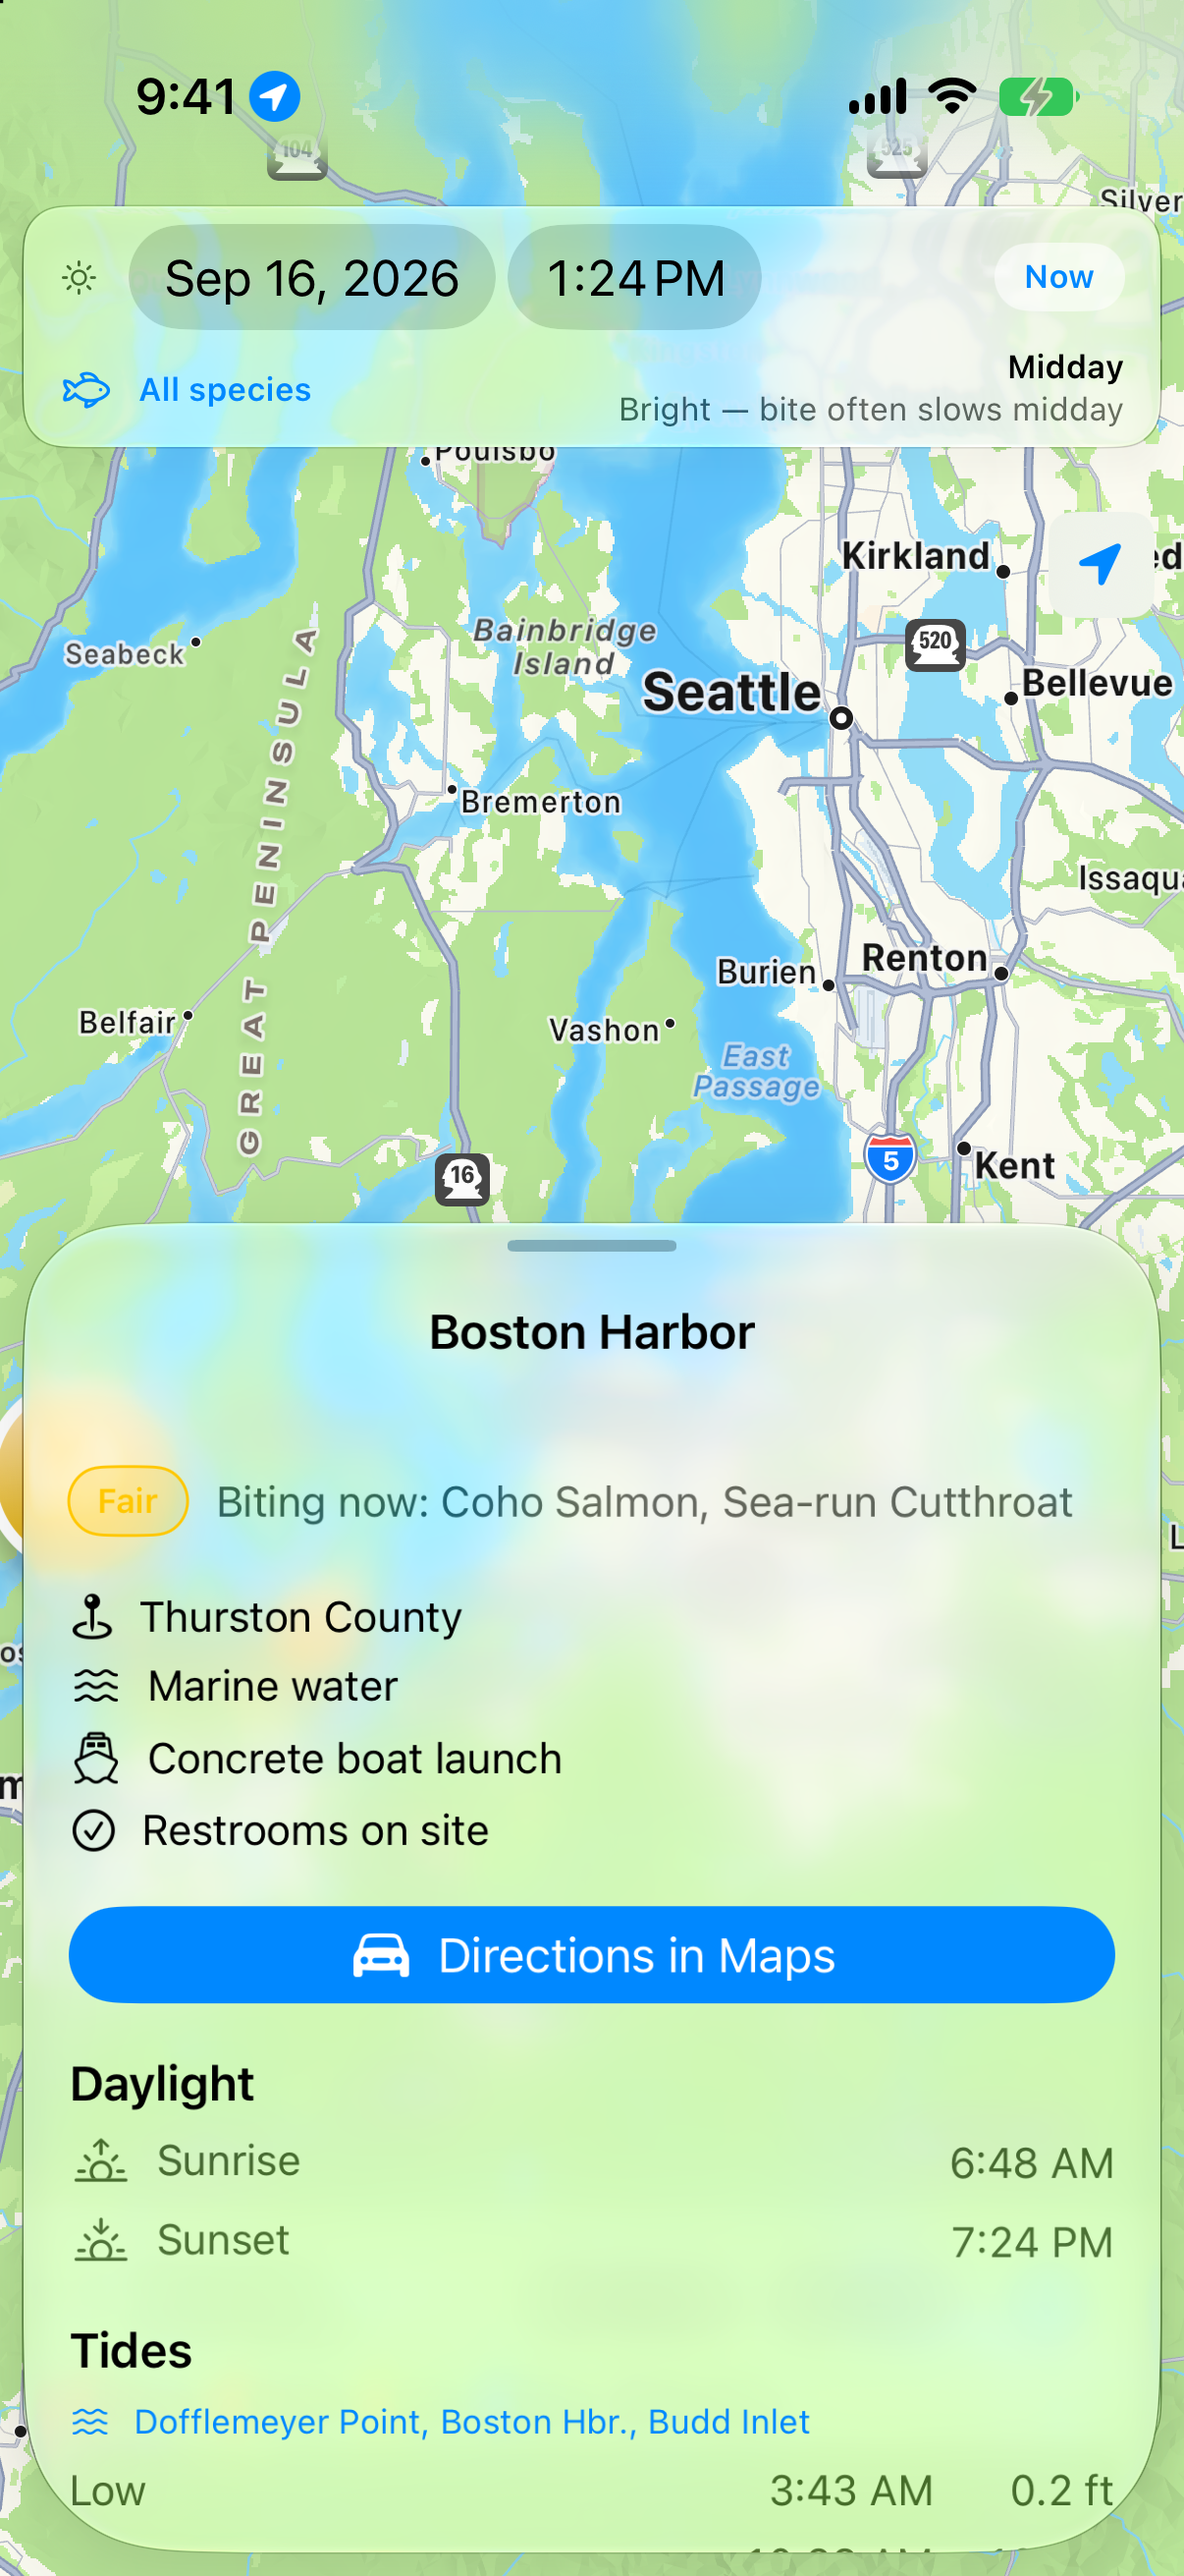
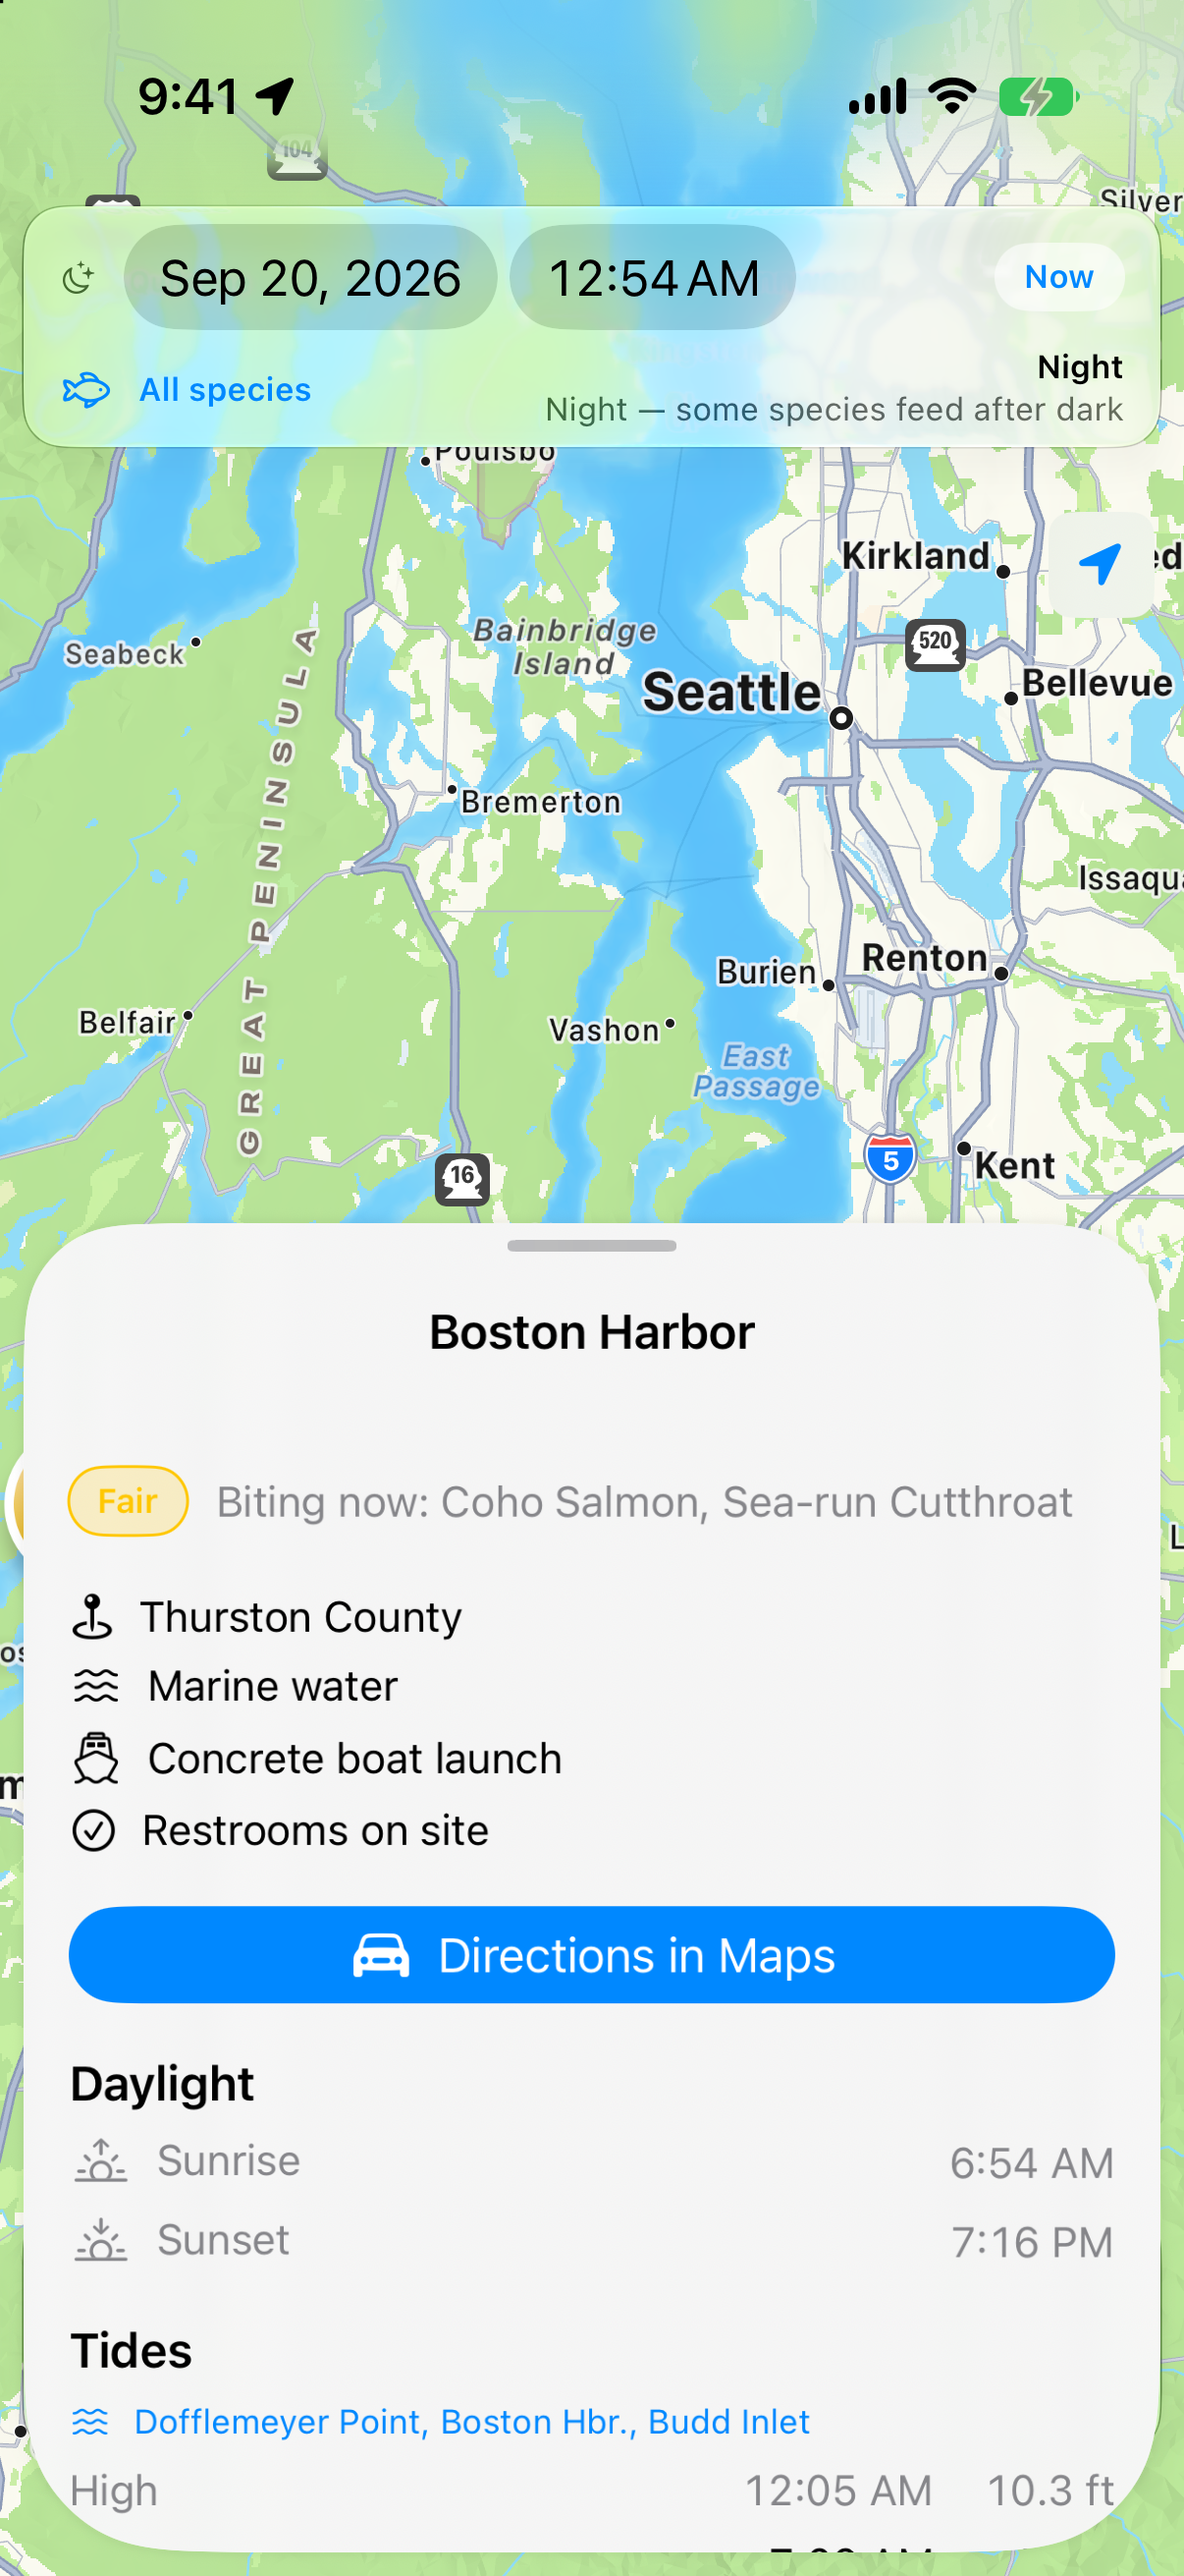
Marker sizing, sheet legibility, and six screenshot frames
Four fixes found by building a design system from this repo and reading the
result on the simulator.

Markers were MKMarkerAnnotationView at its own size, which at regional zoom
covered the place names a person navigates by — the screen read as a map of
pins rather than a map with pins on it. MarkerMetrics now scales pins to 0.8
and clusters to 0.95, applied in both layoutSubviews and prepareForDisplay
since a dequeued view is not always laid out again before MapKit shows it. The
cluster's tip-correcting transform moved into the same helper: it already
worked in both directions, the term simply goes negative when shrinking.

Each sheet's first row is a rating badge and a subtitle sitting directly under
an inline navigation title, and with a transparent bar the title drew straight
through it — "Public fishin{Les Davis Pier}g pier". The bar is now opaque on
all three sheets, so content scrolls under it instead of into it.

At the medium detent the sheet's default background let the live basemap and
the heat wash through, and body rows were read against green-blue mottling.
thickMaterial keeps it readable while still reading as a layer over the map.

GuidanceFooter drew .yellow.opacity(0.12) while DS.Surface.advisory existed
for exactly this reason: yellow is also the Fair rating, and both appear on the
same sheet, so a reader had no way to tell a caution from a rating. It uses the
token now.

app_store_screenshots.sh goes from two frames to six — the pier and river
[…]

diff --git a/WAFishMap/Map/AnnotationViews.swift b/WAFishMap/Map/AnnotationViews.swift
@@ -1,6 +1,26 @@
 import MapKit
 import SwiftUI
 
+/// How large a marker draws, relative to `MKMarkerAnnotationView`'s own size.
+///
+/// The class has no size property, so both values are applied as a transform.
+/// At the default size the balloons covered the place labels they are meant to
+/// sit beside at regional zoom — a map of pins rather than a map with pins on
+/// it. A cluster stays a fixed step above a single pin so "13" never reads as
+/// one spot.
+enum MarkerMetrics {
+    static let pin: CGFloat = 0.8
+    static let cluster: CGFloat = 0.95
+
+    /// Scaling happens about the view's centre, which walks the balloon's tip
+    /// off its coordinate. Translating by half the height change puts it back,
+    /// in either direction: the term is negative when shrinking.
+    static func transform(for view: MKAnnotationView, scale: CGFloat) -> CGAffineTransform {
+        let lift = view.bounds.height * (scale - 1) / 2
+        return CGAffineTransform(translationX: 0, y: -lift).scaledBy(x: scale, y: scale)
+    }
+}
+
 /// The marine-area "MA n" capsule. A plain annotation, deliberately outside the
 /// site cluster group — labels must not merge into a site badge.
 final class AreaLabelAnnotation: NSObject, MKAnnotation {
@@ -32,6 +52,24 @@ final class SiteMarkerView: MKMarkerAnnotationView {
             clusteringIdentifier = "site"
             apply(annotation)
         }
+    }
+
+    // Applied at both points: a dequeued view is not always laid out again
+    // before MapKit shows it, so `layoutSubviews` alone leaves a reused marker
+    // at full size on screen.
+    override func layoutSubviews() {
+        super.layoutSubviews()
+        applyScale()
+    }
+
+    override func prepareForDisplay() {
+        super.prepareForDisplay()
+        applyScale()
+    }
+
+    private func applyScale() {
+        let target = MarkerMetrics.transform(for: self, scale: MarkerMetrics.pin)
+        if transform != target { transform = target }
     }
 
     /// A boat for a launch, an angler for a shore-only site, a fish for a pier;
@@ -88,7 +126,7 @@ final class SiteClusterView: MKMarkerAnnotationView {
     /// read as one spot. `MKMarkerAnnotationView` has no size property, so the
     /// view is scaled, lifted by the growth so the balloon's tip stays on the
     /// coordinate instead of sinking below it.
-    static let scale: CGFloat = 1.2
+    static let scale: CGFloat = MarkerMetrics.cluster
 
     // Applied at both points: `layoutSubviews` alone left reused cluster views
     // at single-pin size on screen, since a dequeued view is not always laid
@@ -104,8 +142,7 @@ final class SiteClusterView: MKMarkerAnnotationView {
     }
 
     private func applyScale() {
-        let lift = bounds.height * (Self.scale - 1) / 2
-        let target = CGAffineTransform(translationX: 0, y: -lift).scaledBy(x: Self.scale, y: Self.scale)
+        let target = MarkerMetrics.transform(for: self, scale: Self.scale)
         if transform != target { transform = target }
     }
 

diff --git a/WAFishMap/SiteDetailSheet.swift b/WAFishMap/SiteDetailSheet.swift
@@ -171,7 +171,11 @@ struct GuidanceFooter: View {
         }
         .padding(12)
         .frame(maxWidth: .infinity, alignment: .leading)
-        .background(.yellow.opacity(0.12), in: RoundedRectangle(cornerRadius: 12))
+        // Neutral, not yellow: a yellow wash is also the Fair rating, and both
+        // appear on this sheet — a reader had no way to tell a caution from a
+        // rating. The shield glyph and the heading carry the caution.
+        .background(DS.Surface.advisory,
+                    in: RoundedRectangle(cornerRadius: DS.Surface.advisoryRadius))
         .accessibilityElement(children: .contain)
         .accessibilityIdentifier("guidanceFooter")
     }
@@ -301,6 +305,11 @@ struct SiteDetailSheet: View {
             }
             .navigationTitle(site.facilityName)
             .navigationBarTitleDisplayMode(.inline)
+            // The badge + subtitle row is the first thing in the scroll view, so
+            // a transparent bar let the title draw straight through it
+            // ("Public fishin{Les Davis Pier}g pier"). An opaque bar gives the
+            // content something to scroll under instead of into.
+            .toolbarBackground(.visible, for: .navigationBar)
         }
         // Lets a UI test wait for the sheet before asserting the *absence* of the
         // verify badge; without it an absence check can pass by running early.
@@ -444,6 +453,11 @@ struct PierDetailSheet: View {
             }
             .navigationTitle(pier.name)
             .navigationBarTitleDisplayMode(.inline)
+            // The badge + subtitle row is the first thing in the scroll view, so
+            // a transparent bar let the title draw straight through it
+            // ("Public fishin{Les Davis Pier}g pier"). An opaque bar gives the
+            // content something to scroll under instead of into.
+            .toolbarBackground(.visible, for: .navigationBar)
         }
         .accessibilityIdentifier("pierDetailSheet")
     }

diff --git a/WAFishMap/FishingMapView.swift b/WAFishMap/FishingMapView.swift
@@ -568,6 +568,10 @@ private struct AdaptiveDetail<Item: Identifiable, Detail: View>: ViewModifier {
                 detail(site)
                     .presentationDetents([.medium, .large])
                     .presentationBackgroundInteraction(.enabled(upThrough: .medium))
+                    // At the medium detent the sheet sat over a live, heat-washed
+                    // map and the body rows were read against green-blue mottling.
+                    // Opaque enough to read on, still clearly a layer over the map.
+                    .presentationBackground(.thickMaterial)
             }
         }
     }

diff --git a/WAFishMap/RiverDetailSheet.swift b/WAFishMap/RiverDetailSheet.swift
@@ -40,6 +40,9 @@ struct RiverDetailSheet: View {
             }
             .navigationTitle(river.name)
             .navigationBarTitleDisplayMode(.inline)
+            // Same as the site and pier sheets: an opaque bar, so scrolled
+            // content passes under the title instead of through it.
+            .toolbarBackground(.visible, for: .navigationBar)
         }
         .accessibilityIdentifier("riverDetailSheet")
     }
